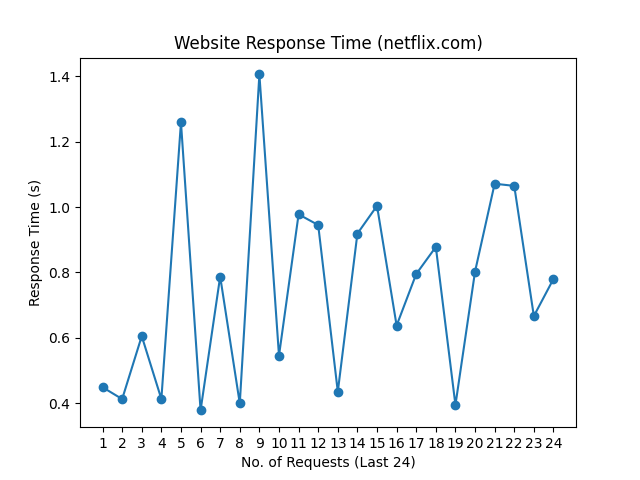
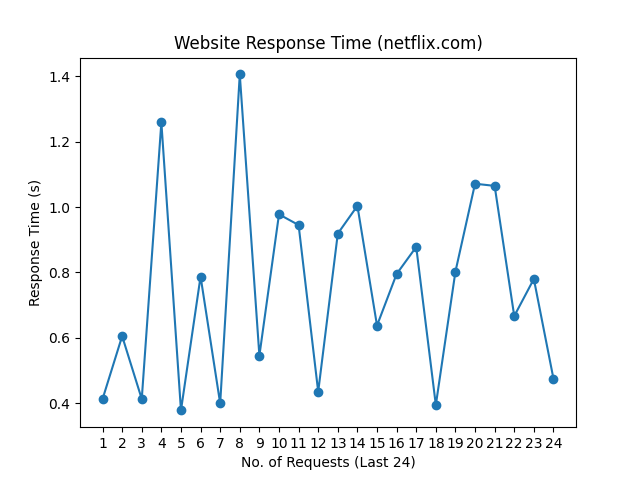
update README.md, history and graph

Changed region(s): [[0.1562, 0.125, 0.875, 0.875]]

diff --git a/README.md b/README.md
@@ -1,10 +1,10 @@
 # Web Monitoring
 
-Last Checked: 24/02/2024 08:57
+Last Checked: 25/02/2024 09:03
 
 | Website | Response Time (s) | Status | Avg Uptime (%) |
 |---------|-------------------|--------|----------------|
 | www.thiswebsiteisdown.net | 0 <br> <img src="graph/thiswebsiteisdown.net.png" alt="Graph" width="200" height="200">  | ❌ Down | 0.00 |
-| www.netflix.com | 0.780100 <br> <img src="graph/netflix.com.png" alt="Graph" width="200" height="200">  | ✅ Up | 100.00 |
-| www.google.com | 0.090066 <br> <img src="graph/google.com.png" alt="Graph" width="200" height="200">  | ✅ Up | 100.00 |
-| www.facebook.com | 0.236409 <br> <img src="graph/facebook.com.png" alt="Graph" width="200" height="200">  | ✅ Up | 100.00 |
+| www.netflix.com | 0.475135 <br> <img src="graph/netflix.com.png" alt="Graph" width="200" height="200">  | ✅ Up | 100.00 |
+| www.google.com | 0.064669 <br> <img src="graph/google.com.png" alt="Graph" width="200" height="200">  | ✅ Up | 100.00 |
+| www.facebook.com | 0.316491 <br> <img src="graph/facebook.com.png" alt="Graph" width="200" height="200">  | ✅ Up | 100.00 |
